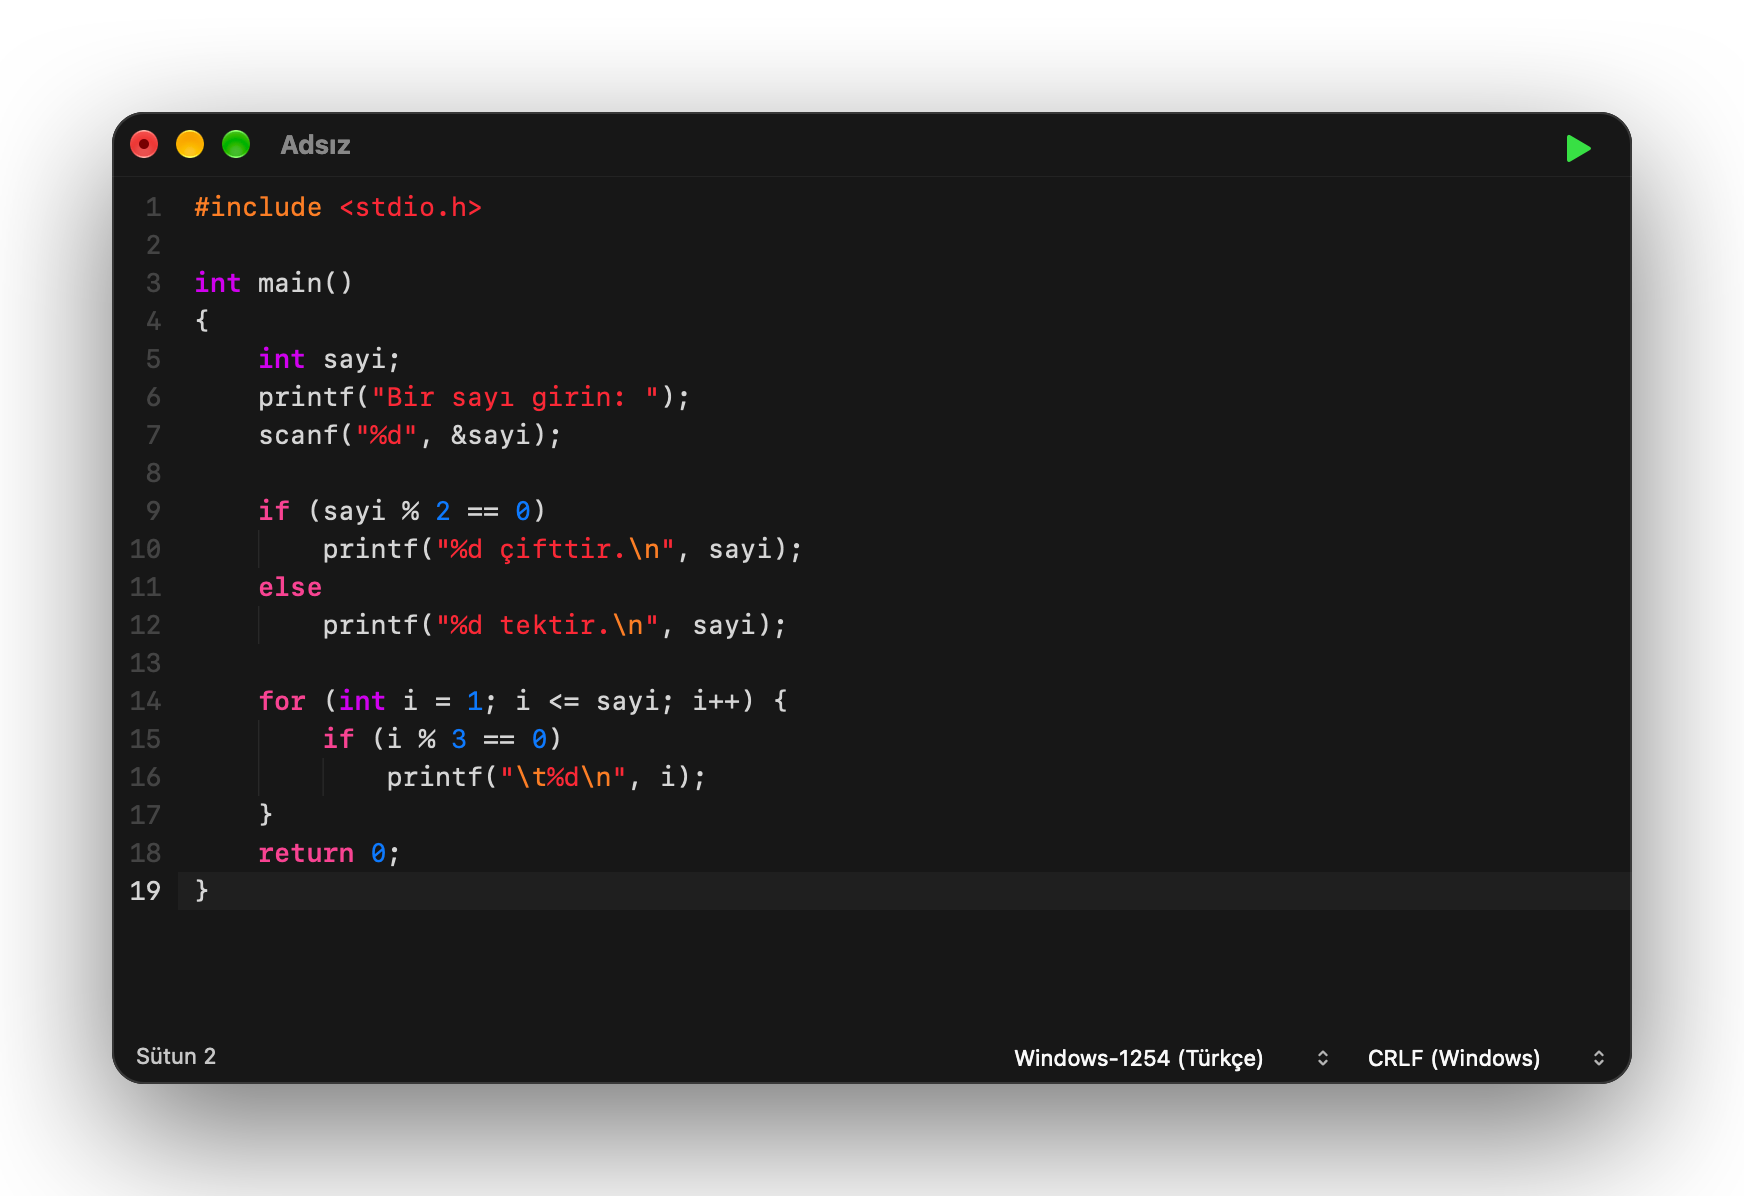
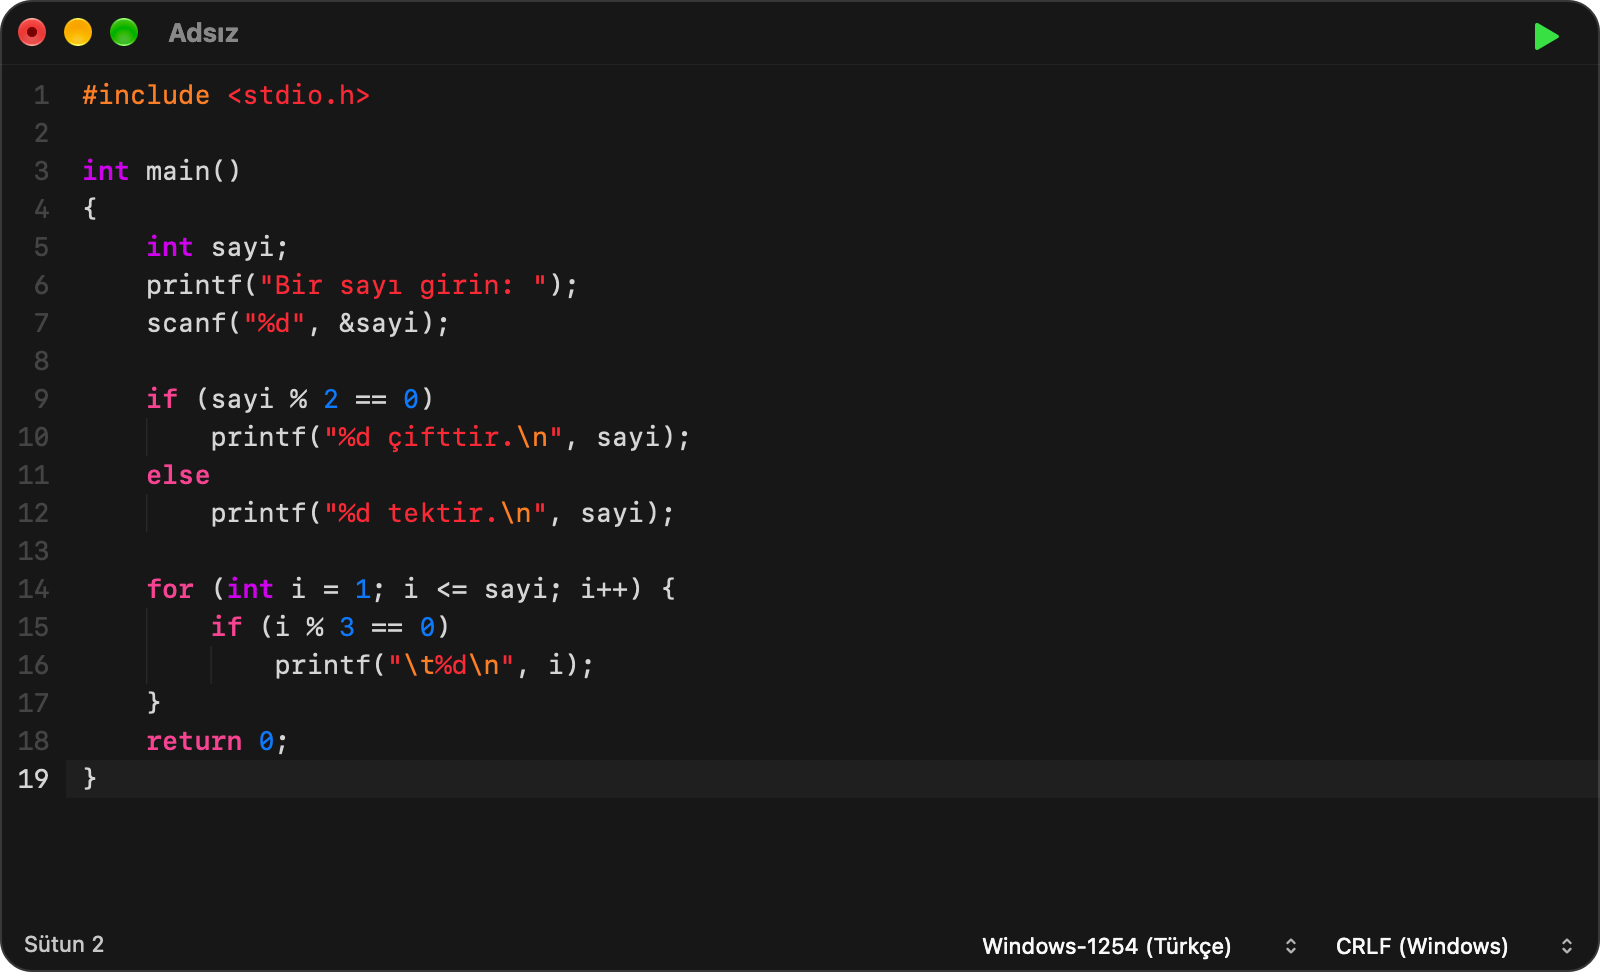
README in GitHub's order (features, install, usage, help); screenshots cropped to the window; one badge colour

diff --git a/README.md b/README.md
@@ -1,15 +1,18 @@
-<div align="center">
+<p align="center">
   <img src="docs/assets/icon.png" width="128" height="128" alt="C Editor simgesi">
-  <h1>C Editor</h1>
-  <p><strong>Mac için sade ve hızlı C editörü. Kodunu yaz, ⌘R’ye bas, çalışsın.</strong></p>
+</p>
 
-  [![Sürüm](https://img.shields.io/github/v/release/erhansavas/c-editor?include_prereleases&label=s%C3%BCr%C3%BCm)](https://github.com/erhansavas/c-editor/releases)
-  [![Platform](https://img.shields.io/badge/macOS_27-Apple_silicon-black?logo=apple)](#kurulum)
-  [![Lisans](https://img.shields.io/badge/lisans-Apache--2.0-blue.svg)](LICENSE)
-</div>
+<h1 align="center">C Editor</h1>
+
+<p align="center">Mac için sade ve hızlı C editörü. Kodunu yaz, <b>⌘R</b>’ye bas, çalışsın.</p>
 
 <p align="center">
-  <img src="docs/screenshots/editor.png" width="760" alt="C Editor’de döngü ve if/else içeren bir not programı; altındaki konsolda girilen notlar, Pekiyi/Geçti/Kaldı sonuçları ve 66,7 ortalaması">
+  <a href="https://github.com/erhansavas/c-editor/releases"><img src="https://img.shields.io/github/v/release/erhansavas/c-editor?include_prereleases&label=s%C3%BCr%C3%BCm&color=blue" alt="Sürüm"></a>
+  <a href="LICENSE"><img src="https://img.shields.io/github/license/erhansavas/c-editor?label=lisans&color=blue" alt="Lisans"></a>
+</p>
+
+<p align="center">
+  <img src="docs/screenshots/editor.png" width="800" alt="C Editor’de döngü ve if/else içeren bir not programı; altındaki konsolda girilen notlar, Pekiyi/Geçti/Kaldı sonuçları ve 66,7 ortalaması">
 </p>
 
 C Editor, C öğrenenler için yapıldı. Bir dosya açın ya da yazmaya başlayın, **⌘R**’ye basın: program derlenir
@@ -19,45 +22,57 @@ birlikte olduğu gibi çalışır.
 C Editor öğretir, sizin yerinize yazmaz: kod tamamlama, yazarken öneri ya da tek tıkla düzeltme yoktur. Hata
 yaptığınızda nerede olduğunu ve satırın ne olması gerektiğini söyler; düzeltmeyi siz yaparsınız.
 
-## Neler yapar
+## Özellikler
 
-- **Tek tuşla derle ve çalıştır:** **⌘R**, **F11** ya da sağ üstteki yeşil ▶. Girdiyi konsola yazarsınız;
-  program bitince bir tuş konsolu kapatır, çalışırken **Ctrl+C** durdurur.
-- **Hatalarda Türkçe yardım:** derleyicinin İngilizce mesajının altında ne olduğu ve ne yazılması gerektiği.
-- **Çökmelerde neden:** program çökerse ne olduğunu (ör. segmentation fault) ve nedenini Türkçe söyler.
+- **Tek tuşla derle ve çalıştır:** **⌘R**, **F11** ya da sağ üstteki yeşil ▶. Girdiyi konsola yazarsınız.
+- **Hatalarda Türkçe yardım:** derleyicinin mesajının altında ne olduğu ve ne yazılması gerektiği.
+- **Çökmelerde neden:** program çökerse ne olduğunu ve nedenini Türkçe söyler.
 - **Windows’ta yazılan kod olduğu gibi çalışır:** `system("pause")`, `getch()`, `setlocale(LC_ALL, "Turkish")`.
-- **Türkçe dosyalar:** UTF-8 ve Windows-1254 dosyaları kendi biçiminde açar ve kaydeder; yeni dosyalar
-  okuldaki bilgisayarlarda da düzgün açılsın diye Windows-1254 ve CRLF’dir.
-- **Sade ve hızlı:** Apple silicon için yerel bir uygulama; renklendirme, sekmeler, kıstırarak yakınlaştırma.
+- **Türkçe dosyalar:** UTF-8 ve Windows-1254 dosyalarını kendi biçiminde açar ve kaydeder.
+- **Sade ve hızlı:** Mac için yerel bir uygulama; renklendirme, sekmeler, kıstırarak yakınlaştırma.
 
-## Yazarken
+## Kurulum
+
+C Editor macOS 27 yüklü Apple silicon (M1 ve sonrası) Mac’lerde çalışır. Şu an beta aşamasındadır: günlük
+kullanıma hazırdır, ama 1.0’a kadar davranışı değişebilir.
+
+1. [Sürümler](https://github.com/erhansavas/c-editor/releases) sayfasından `C-Editor-0.5.1-macOS-arm64.dmg`
+   dosyasını indirin, açın ve **C Editor**’ü **Applications** (Uygulamalar) klasörüne sürükleyin.
+2. Uygulama Apple onaylı (notarize) olmadığı için macOS ilk açılışı engeller: **Sistem Ayarları › Gizlilik ve
+   Güvenlik**’e gidip **Yine de Aç**’ı seçin.
+3. Programları derlemek için Apple’ın ücretsiz Komut Satırı Araçları gerekir. Kurulu değilse ⌘R’ye ilk
+   bastığınızda C Editor bunu söyler; **Kur**’a tıklamanız yeterli.
+
+İndirdiğiniz dosyayı doğrulamak için: `shasum -a 256 -c C-Editor-0.5.1-macOS-arm64.dmg.sha256`
+
+## Kullanım
+
+### Yazarken
 
 <p align="center">
-  <img src="docs/screenshots/yazarken.png" width="760" alt="Girintisi elle yazılmamış, yalnızca Enter’larla yazılmış bir program; if/else ve for blokları soluk dikey çizgilerle gösteriliyor">
+  <img src="docs/screenshots/yazarken.png" width="800" alt="Girintisi elle yazılmamış, yalnızca Enter’larla yazılmış bir program; if/else ve for blokları soluk dikey çizgilerle gösteriliyor">
 </p>
 
-Bu kodda tek bir girinti boşluğu elle yazılmadı; her satırdan sonra yalnızca Enter’a basıldı. C Editor
-yazdıklarınıza yalnızca boşlukla yardım eder, hiçbir kodu sizin yerinize yazmaz:
+Bu kodda tek bir girinti boşluğu elle yazılmadı; her satırdan sonra yalnızca Enter’a basıldı. C Editor yalnızca
+boşlukla yardım eder, kodu sizin yerinize yazmaz:
 
 - `{` ile ya da süslü parantezsiz `if (...)`, `else`, `for (...)`, `while (...)`, `do` ile biten satırdan sonra
   yeni satır bir kademe içeriden başlar; o tek komutun ardından geri döner.
-- `}` kendi `{` satırıyla hizalanır: boş satıra yazınca da, önünde Enter’a basınca da. `{}` arasında Enter’a
-  basınca imleç aradaki girintili satıra gelir.
+- `}` kendi `{` satırıyla hizalanır: boş satıra yazınca da, önünde Enter’a basınca da.
 - Girintide Backspace bir kademe (4 boşluk) birden siler.
 - Soluk dikey çizgiler hangi satırın hangi bloğa ait olduğunu gösterir.
 
-## Hata yapınca
+### Hata yapınca
 
 <p align="center">
-  <img src="docs/screenshots/hatalar.png" width="760" alt="C Editor’de iki hata ve altlarında Türkçe açıklamaları">
+  <img src="docs/screenshots/hatalar.png" width="800" alt="C Editor’de iki hata ve altlarında Türkçe açıklamaları">
 </p>
 
 Hatalı satırlar işaretlenir ve imleç ilk hataya gider. Derleyicinin mesajları terimleri tanıyın diye İngilizce
-kalır; altlarında Türkçe açıklaması çıkar: “Noktalı virgül (;) eksik. “;” yazılmalı.” Mesaja tıklayınca o
-satıra gidilir. Tanımsız değişken, koşulda `==` yerine `=`, `if (...);`, tutmayan `%d`, kapanmamış tırnak,
-eksik `}`, unutulmuş `#include` gibi sık hatalar da Türkçe açıklanır.
+kalır; altlarında Türkçe açıklaması çıkar. Mesaja tıklayınca o satıra gidilir. Program çalışırken çökerse konsol
+ne olduğunu (ör. segmentation fault) ve nedenini Türkçe söyler.
 
-## Windows’tan gelen kod
+### Windows’tan gelen kod
 
 | Kodunuzda | C Editor’de |
 | --- | --- |
@@ -71,31 +86,20 @@ eksik `}`, unutulmuş `#include` gibi sık hatalar da Türkçe açıklanır.
 | `#include <bits/stdc++.h>` | desteklenir |
 | `int` yazılmamış `main()`, unutulmuş `#include` | Windows’taki GCC gibi hata değil, uyarı verir |
 
-## Kurulum
+Yeni dosyalar Windows’un kaydettiği biçimdedir (Windows-1254, CRLF), böylece okuldaki bilgisayarlarda da düzgün
+açılır. Biçim durum çubuğundan değiştirilebilir.
 
-C Editor beta aşamasındadır: günlük kullanıma hazırdır, ama 1.0’a kadar davranışı değişebilir.
-
-1. [Sürümler](https://github.com/erhansavas/c-editor/releases) sayfasından
-   `C-Editor-0.5.1-macOS-arm64.dmg` dosyasını indirin, açın ve **C Editor**’ü **Applications** (Uygulamalar)
-   klasörüne sürükleyin.
-2. Uygulama Apple onaylı (notarize) olmadığı için macOS ilk açılışı engeller: **Sistem Ayarları › Gizlilik ve
-   Güvenlik**’e gidip **Yine de Aç**’ı seçin.
-3. Programları derlemek için Apple’ın ücretsiz Komut Satırı Araçları gerekir. Kurulu değilse ⌘R’ye ilk
-   bastığınızda C Editor bunu söyler; **Kur**’a tıklamanız yeterli.
-
-İndirdiğiniz dosyayı doğrulamak için: `shasum -a 256 -c C-Editor-0.5.1-macOS-arm64.dmg.sha256`
-
-## Kısayollar
+### Kısayollar
 
 | Kısayol | İş |
 | --- | --- |
 | **⌘R** ya da **F11** | Derle ve çalıştır |
-| **⌘N** / **⌘T** / **⌘O** | Yeni dosya / yeni sekme / aç (sekmede) |
+| **Ctrl+C** | Çalışan programı durdur |
+| **⌘N** / **⌘T** / **⌘O** | Yeni dosya / yeni sekme / aç |
 | **⌘S** / **⌥⌘S** | Kaydet / farklı kaydet |
 | **⌘W** / **⌘⇧T** | Sekmeyi kapat / kapatılan sekmeyi yeniden aç |
 | **⌃⇥** / **⌃⇧⇥** | Sonraki / önceki sekme |
 | **⌘1**…**⌘8** / **⌘9** | O sekmeye git / son sekmeye git |
-| **Ctrl+C** | Çalışan programı durdur |
 
 ## Kaynaktan derleme
 
@@ -109,6 +113,11 @@ Apple silicon, macOS 27 ve Xcode 27 gerekir.
 ./build.sh --install    # uygulamayı /Applications klasörüne kurar
 ```
 
+## Sorun bildirme
+
+Bir hata bulduysanız ya da bir öneriniz varsa [Issues](https://github.com/erhansavas/c-editor/issues)
+sayfasından yazın. Hangi kodu yazdığınızı ve ne beklediğinizi eklemeniz yeterli.
+
 ## Lisans
 
-Apache License 2.0. Bkz. [LICENSE](LICENSE).
+Apache License 2.0. Bkz. [LICENSE](LICENSE). Değişiklikler: [CHANGELOG.md](CHANGELOG.md).
